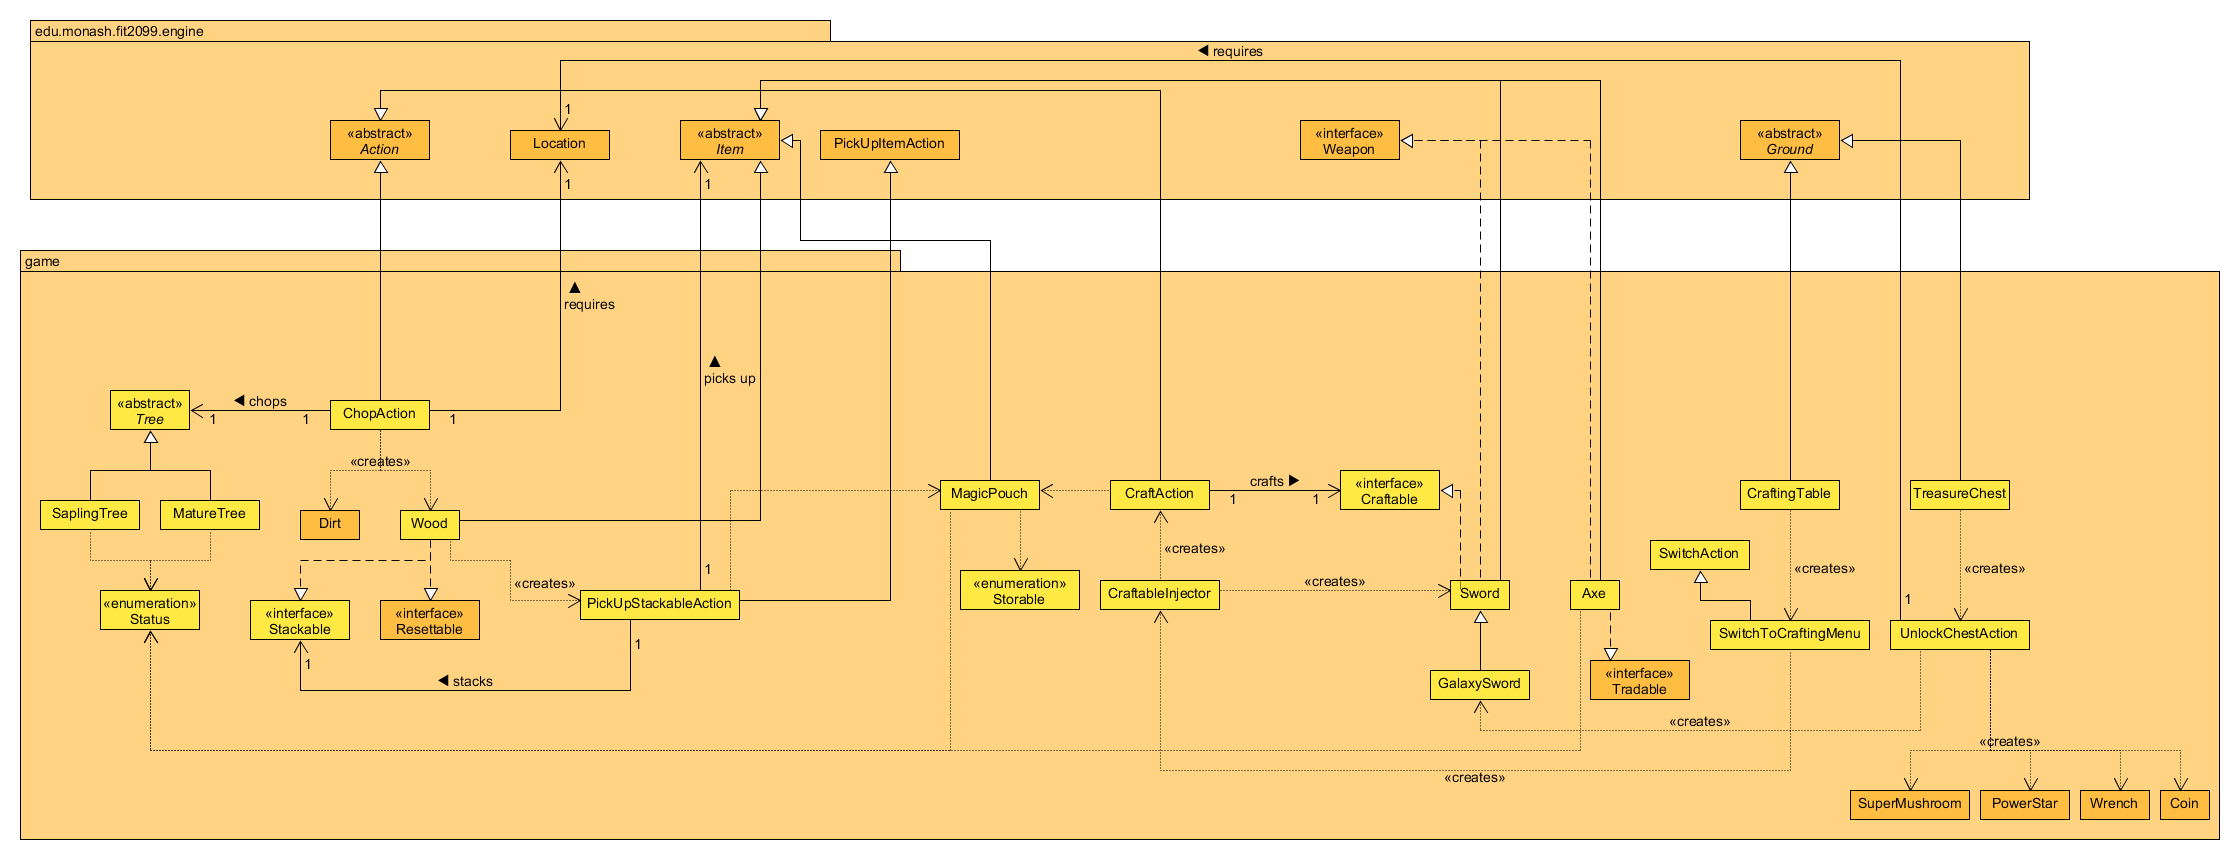
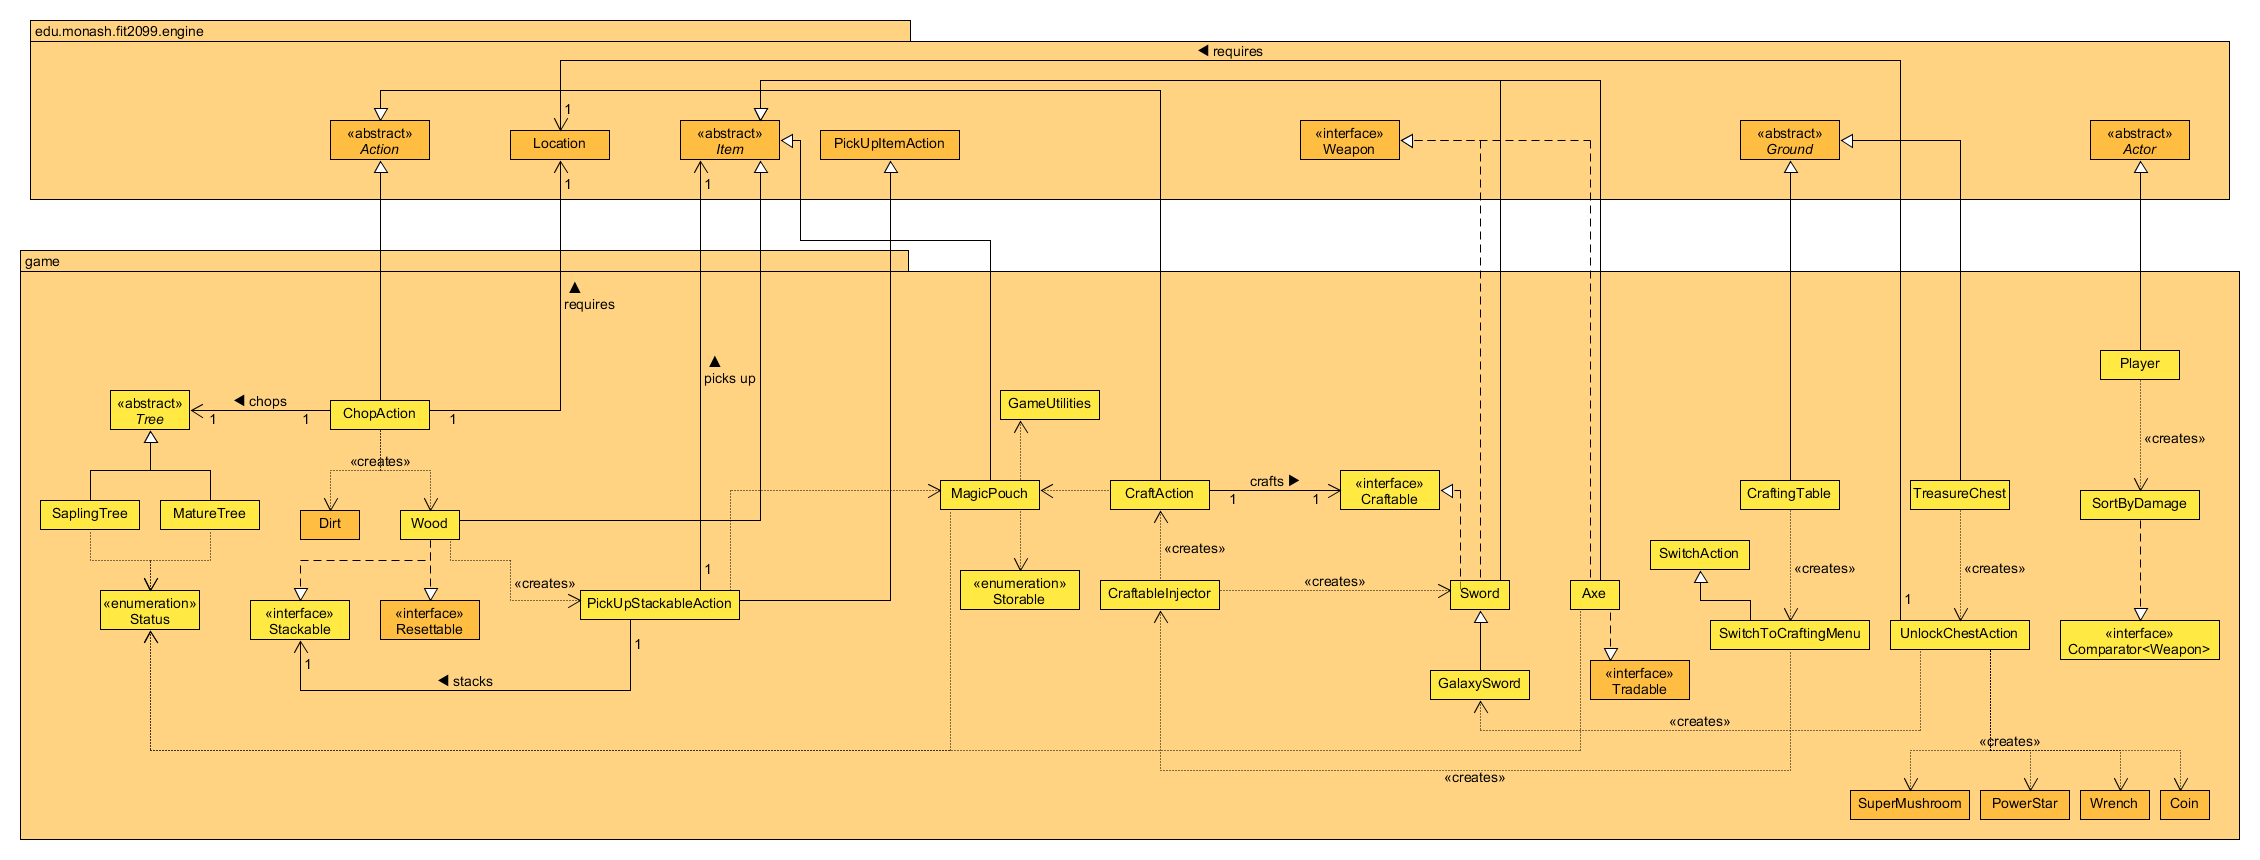
Updated creative REQ4 class diagram and added 3 sequence diagrams

diff --git a/design-docs/Ass3_REQ4_DesignRationale.md b/design-docs/Ass3_REQ4_DesignRationale.md
@@ -6,9 +6,11 @@ For reference here are the class and sequence diagrams.
 
 ![ass3 req4 class diagram](./Ass3_REQ4_class.png "Ass3 REQ4 Class Diagram")
 
-## Sequence Diagram
+## Sequence Diagrams
 
-![ass3 req4 sequence diagram]()
+![ass3 req4 sequence diagram](./Ass3_REQ4_sequence_01.png)
+![ass3 req4 sequence diagram](./Ass3_REQ4_sequence_02.png)
+![ass3 req4 sequence diagram](./Ass3_REQ4_sequence_03.png)
 
 ## Rationale
 
